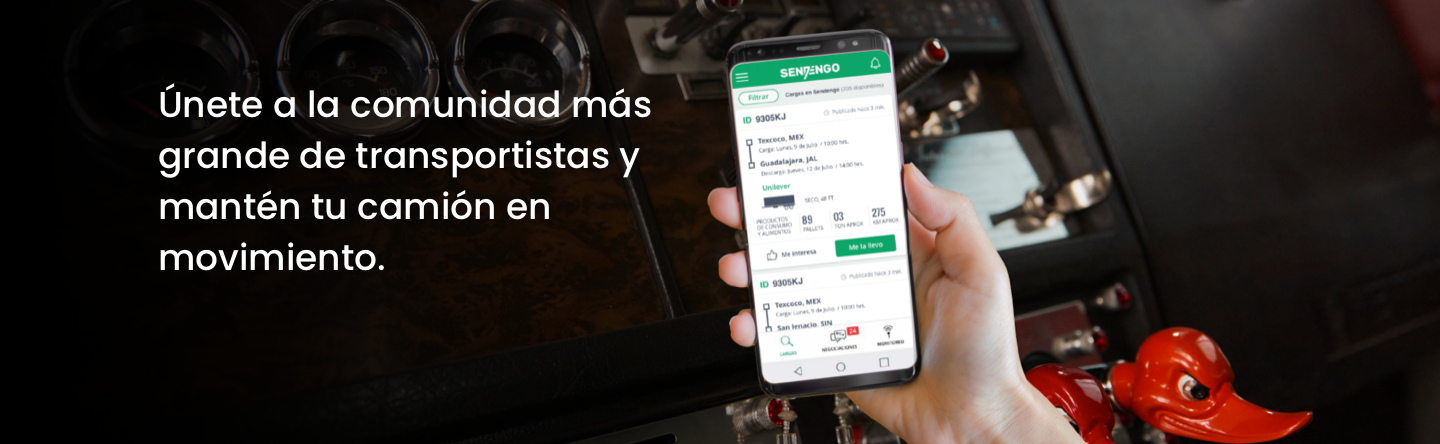
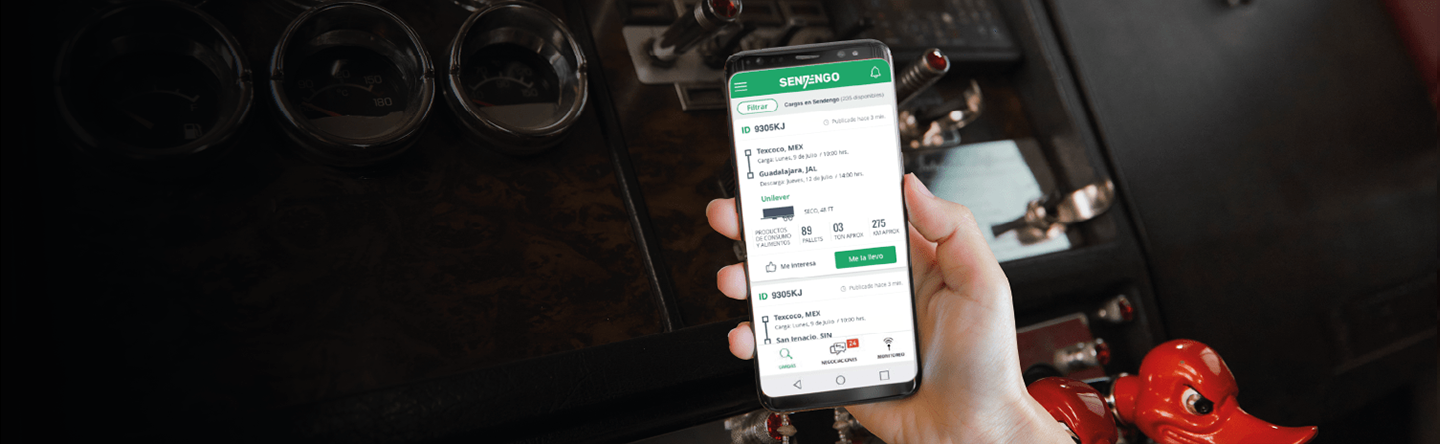
cambio de imagenes y estilos en las noticias

diff --git a/embarcador.html b/embarcador.html
@@ -232,7 +232,7 @@
         </div>
     </section>
     <!--whatsapp-->
-    <section>
+    <section class="section-whatsapp">
         <div class="container-fluid whatsapp-banner d-flex align-items-center">
             <div class="container whats-embarcador-mobile">
                 <h2 class="text-white d-inline">Estamos listos para trabajar contigo </h2>
@@ -245,37 +245,62 @@
         </div>
     </section>
     <!--News-->
-    <section class="d-none d-sm-block">
+    <section class="d-none d-sm-block section-news">
         <div class="container-fluid mb-5 mt-5">
             <div class="container">
-                <h2 class="my-5">Sendengo, una startup sobresaliente</h2>
+                <h2 class="my-5">Sendengo, una startup sobresaliente.</h2>
                 <div class="row">
                     <div class="col-md-2 col-sm-6">
-                        <a target="_blank"
-                            href="https://www.forbes.com.mx/30-promesas-2018-sendengo-empresa-favorita-del-publico-en-la-categoria-de-tecnologia/ ">
-                            <img src="./img/Noticias/forbes.png" alt="forbes"></a>
+                        <div class="img_section">
+                            <figure>
+                                <a target="_blank"
+                                    href="https://www.forbes.com.mx/30-promesas-2018-sendengo-empresa-favorita-del-publico-en-la-categoria-de-tecnologia/ ">
+                                    <img src="./img/Noticias/forbes.png" class="img-news" alt="forbes"></a>
+                            </figure>
+                        </div>
+
                     </div>
                     <div class="col-md-2 col-sm-6">
-                        <a target="_blank" href="https://www.entrepreneur.com/article/311247 ">
-                            <img src="./img/Noticias/entrepreneur.png" alt="entrepreneur"></a>
+                        <div class="img_section">
+                            <figure>
+                                <a target="_blank" href="https://www.entrepreneur.com/article/311247 ">
+                                    <img src="./img/Noticias/entrepreneur.png" alt="entrepreneur"></a>
+                            </figure>
+                        </div>
                     </div>
                     <div class="col-md-2 col-sm-6">
-                        <a target="_blank" href="https://blog.enlacee.org/blog/historia-sendengo">
-                            <img src="./img/Noticias/enlace.png" alt="enlace">
-                        </a>
+                        <div class="img_section">
+                            <figure>
+                                <a target="_blank" href="https://blog.enlacee.org/blog/historia-sendengo">
+                                    <img src="./img/Noticias/enlace.png" alt="enlace">
+                                </a>
+                            </figure>
+                        </div>
                     </div>
                     <div class="col-md-2 col-sm-6">
-                        <a target="_blank" href="">
-                            <img src="./img/Noticias/tecreview.png" alt="tecreview"></a>
+                        <div class="img_section">
+                            <figure>
+                                <a target="_blank" href="">
+                                    <img src="./img/Noticias/tecreview.png" alt="tecreview"></a>
+                            </figure>
+                        </div>
                     </div>
                     <div class="col-md-2 col-sm-6">
-                        <a target="_blank" href="https://www.pronetwork.mx/magazine/las-100-pro-2021/">
-                            <img src="./img/Noticias/100pro.png" alt="100pro"></a>
+                        <div class="img_section">
+                            <figure>
+                                <a target="_blank" href="https://www.pronetwork.mx/magazine/las-100-pro-2021/">
+                                    <img src="./img/Noticias/100pro.png" alt="100pro"></a>
+                            </figure>
+                        </div>
                     </div>
                     <div class="col-md-2 col-sm-6">
-                        <a target="_blank"
-                            href="https://www.pronetwork.mx/magazine/sendengo-transporta-100-seguro-y-con-tecnologia/">
-                            <img src="./img/Noticias/pro-network.png" alt="pro network"></a>
+                        <div class="img_section">
+                            <figure>
+                                <a target="_blank"
+                                    href="https://www.pronetwork.mx/magazine/sendengo-transporta-100-seguro-y-con-tecnologia/">
+                                    <img src="./img/Noticias/pro-network.png" alt="pro network"></a>
+                            </figure>
+                        </div>
                     </div>
                 </div>
             </div>
@@ -285,7 +310,7 @@
     <section class="section-blog d-none d-sm-block">
         <div class="container-fluid">
             <div class="container">
-                <h2 class="mb-5 mt-5 pt-5">Mantente en contacto con nosotros</h2>
+                <h2 class="mb-5 mt-5 pt-5">Mantente en contacto con nosotros.</h2>
                 <div class="row">
                     <div class="col-md-4">
                         <div class="card">

diff --git a/css/styles.css b/css/styles.css
@@ -164,6 +164,25 @@ h2 {
     background-color: #000;
 }
 
+.img-news:hover {
+    -webkit-transform: scale(1.2);
+    transform: scale(1.2);
+}
+
+.img_section figure a img {
+    transform: scale(1);
+    transition: .3s ease-in-out;
+    height: 300;
+    width: 200;
+}
+
+.img_section figure:hover img {
+    transform: scale(1.3);
+    box-shadow: 10px 10px 5px #000000;
+    -moz-box-shadow: 0px 10px 5px #000000;
+    -webkit-box-shadow: 0px 10px 5px #000000;
+}
+
 /*Home*/
 .home {
     background: url(../img/slider.png) no-repeat center center;
@@ -247,11 +266,11 @@ h2 {
 /*Embarcador
 Hero*/
 .top-banner {
-    background: url(../img/bg-banner.png) no-repeat center;
+    background: url(../img/slider-embarcador.png) no-repeat center;
     background-size: cover;
     width: 100%;
     padding: 14.5rem 0 4.9rem 0;
-    ;
+    height: 444px;
 }
 
 .bottom-banner {
@@ -322,6 +341,16 @@ Hero*/
 .whatsapp-span i {
     padding-top: 0.3125rem;
     font-size: 1.75rem;
+}
+
+.section-whatsapp {
+    margin-top: 36px;
+    margin-bottom: 56px;
+}
+
+/*News*/
+.section-news {
+    margin-top: 87px;
 }
 
 /*Blog*/
@@ -449,11 +478,21 @@ Hero*/
     background: url(../img/slider-transportista.png) no-repeat center;
     background-size: cover;
     width: 100%;
-    padding: 19.3rem 0 4.9rem 0;
+    /* padding: 19.3rem 0 4.9rem 0;*/
+    height: 444px;
+    display: flex;
+    align-content: center;
+    align-items: center;
 }
 
 .text-connecting {
     font-size: 1.31rem;
+    line-height: 54px;
+}
+
+.content-button-embarcador h1 {
+    font-size: 36px;
+    margin-bottom: 45px;
 }
 
 .text-connecting-regular {

diff --git a/transportista.html b/transportista.html
@@ -46,7 +46,9 @@
             <div class="container">
                 <h1 class=" d-sm-block d-md-none">Únete a la comunidad más grande de transportistas y mantén tu
                     camión en movimiento.</h1>
-                <div class="col-sm-4 ps-5 ms-3 content-button-embarcador">
+                <div class="col-sm-6  content-button-embarcador">
+                    <h1 class="">Únete a la comunidad más grande de transportistas y mantén tu camión en movimiento.
+                    </h1>
                     <a class="button-white" href="https://sendengo.com/registro/transportista/">REGíSTRATE AHORA</a>
                 </div>
             </div>
@@ -253,7 +255,7 @@
                 </div>
             </div>
             <div class="col-md-6 p-0">
-                <img src="./img/sendengo-app.jpeg" alt="descarga la app" class="img-fluid ">
+                <img src="./img/sendengo-phone.png" alt="descarga la app" class="img-fluid ">
             </div>
         </div>
     </section>
